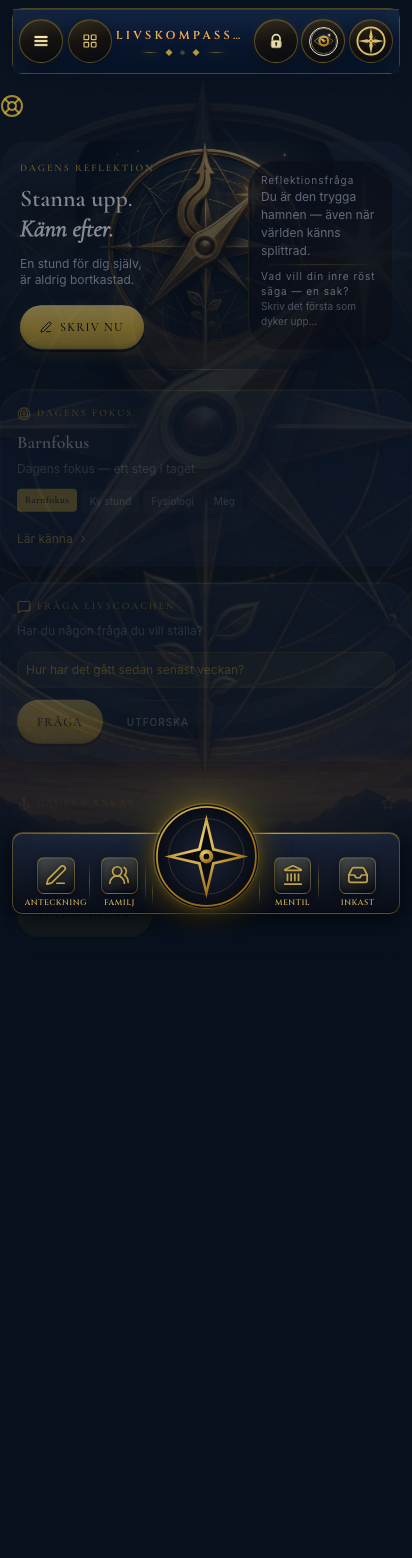
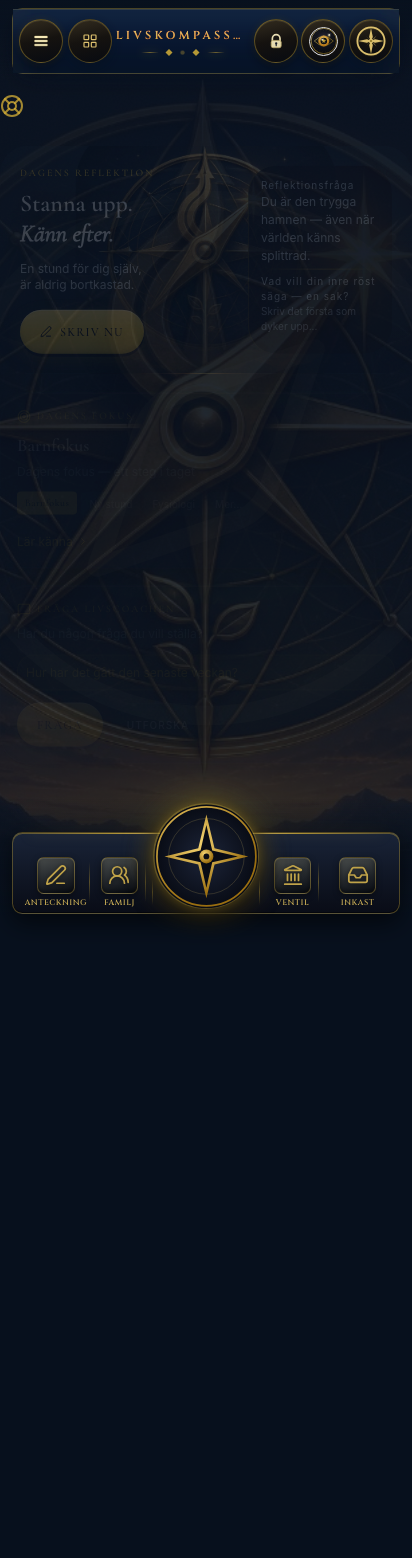
fix(android): natt-grön — vit blink, bakåtknapp, haptik (#253)
* fix(android): stoppa vit blink + frigör e2e-port i natt

Pontus OK: Sacred WebViewManager + theme (Obsidian, ingen overscroll/force-dark).
smoke:e2e-locked-ux dödar upptagen 5174 innan Playwright så predeploy inte failar.

* feat(android): bakåtknapp, haptik och lugnare scroll

Stänger menyer/overlays med fysisk bakåtknapp, haptik i dock/tabbar,
ingen vit overscroll-bounce, plus natt-rapporter.

* fix(android): typecheck för bakåtknapp, skeleton och dock-nav

Tar bort oanvända imports/params och rättar navigate-typ så pre-push går igenom.

* fix(android): ta bort navigationBarDividerColor (API 27+)

Lint NewApi failade i CI — minSdk 24. Vit-blink-fixen behålls via övriga theme-attribut.

---------

diff --git a/src/modules/core/hooks/useNativeBackHandler.ts b/src/modules/core/hooks/useNativeBackHandler.ts
@@ -1,0 +1,47 @@
+import { useEffect } from 'react';
+import { useStore } from '../store';
+import { App } from '@capacitor/app';
+import { isCapacitorNative } from '../platform/capacitorPlatform';
+
+/**
+ * Android Premium Enhancement — Handles physical back button to close
+ * overlays (Menu, Sheets, Modals) before navigating back in history.
+ */
+export function useNativeBackHandler() {
+  const isMenuOpen = useStore((s) => s.ui.isMenuOpen);
+  const setMenuOpen = useStore((s) => s.setMenuOpen);
+
+  useEffect(() => {
+    if (!isCapacitorNative()) return;
+
+    const unsub = App.addListener('backButton', () => {
+      // 1. Close Menu first
+      if (isMenuOpen) {
+        setMenuOpen(false);
+        return;
+      }
+
+      // 2. Check for open Sheets/Modals (simple DOM check for DS components)
+      const hasOverlay = document.querySelector('.ds-overlay');
+      if (hasOverlay) {
+        // Find the close button and click it to trigger component onClose logic
+        // This targets typical DS Sheet/Modal close actions or backdrops
+        const closeBtn = document.querySelector('.ds-sheet-panel [aria-label="Stäng"], .ds-modal-panel [aria-label="Stäng"], .resurser-overlay__close');
+        if (closeBtn instanceof HTMLElement) {
+          closeBtn.click();
+          return;
+        }
+
+        // Fallback: if no close button found but overlay exists, we might need a more aggressive onClose
+        // But for now, DS components usually have close buttons or backdrop clicks.
+      }
+
+      // 3. Default behavior (Capacitor will handle navigation if we don't intercept)
+      // If we are at root, we might want to exit, but let Capacitor default for now.
+    });
+
+    return () => {
+      void unsub.then((h) => h.remove());
+    };
+  }, [isMenuOpen, setMenuOpen]);
+}

diff --git a/src/modules/core/layout/FloatingDock.tsx b/src/modules/core/layout/FloatingDock.tsx
@@ -10,6 +10,7 @@ import { useExecutiveHomeChrome } from '../home/ExecutiveHomeChromeContext';
 import { NAV_PATHS } from '../navigation/navTruth';
 import { ResurserOverlay } from '../navigation/ResurserOverlay';
 import { useLongPress } from '../hooks/useLongPress';
+import { useNativeHaptics } from '@/shared/utils/nativeHaptics';
 import { useStore } from '../store';
 import { useTheme } from '../theme';
 import { getTheme } from '../theme';
@@ -34,6 +35,7 @@ export function FloatingDock() {
   const location = useLocation();
   const navigate = useNavigate();
   const { themeId } = useTheme();
+  const { navigate: triggerNavHaptic } = useNativeHaptics();
   const executive = isMidnightExecutiveTheme(themeId);
   const referenceDock =
     executive || isMockupTheme(themeId) || themeUsesDesignPackChrome(getTheme(themeId));
@@ -89,6 +91,11 @@ export function FloatingDock() {
   const { progress, isHolding, ...centerHoldHandlers } = centerPress;
   const showFyrenRing = progress > 0;
 
+  const handleNavigate = useCallback((to: string | { pathname: string; search?: string }) => {
+    triggerNavHaptic();
+    navigate(to);
+  }, [navigate, triggerNavHaptic]);
+
   if (referenceDock) {
     return (
       <>
@@ -108,13 +115,16 @@ export function FloatingDock() {
             progress={progress}
             isHolding={isHolding}
             centerHoldHandlers={centerHoldHandlers}
-            onAnteckning={() => navigate('/widget/anteckning')}
-            onFamiljen={() => navigate(NAV_PATHS.FAMILJEN)}
-            onVentil={() => navigate(NAV_PATHS.HJARTAT)}
-            onInkast={() => navigate('/planering/input?inputMode=inkast')}
-            onResurser={() => setResurserOpen(true)}
-            onValv={() => navigate(valvetNavigateTarget())}
-            onPlanering={() => navigate('/planering')}
+            onAnteckning={() => handleNavigate('/widget/anteckning')}
+            onFamiljen={() => handleNavigate(NAV_PATHS.FAMILJEN)}
+            onVentil={() => handleNavigate(NAV_PATHS.HJARTAT)}
+            onInkast={() => handleNavigate('/planering/input?inputMode=inkast')}
+            onResurser={() => {
+              triggerNavHaptic();
+              setResurserOpen(true);
+            }}
+            onValv={() => handleNavigate(valvetNavigateTarget())}
+            onPlanering={() => handleNavigate('/planering')}
           />
         </div>
       </>
@@ -134,7 +144,7 @@ export function FloatingDock() {
             active={pathname.startsWith('/widget/anteckning')}
             variant="slot"
             className="floating-dock__side-btn floating-dock__side-btn--anteckning"
-            onClick={() => navigate('/widget/anteckning')}
+            onClick={() => handleNavigate('/widget/anteckning')}
           />
 
           <div className="dock-hub-band__rail dock-hub-band__rail--zones">
@@ -146,7 +156,7 @@ export function FloatingDock() {
                 active={isFamiljen}
                 variant="slot"
                 className="floating-dock__side-btn floating-dock__side-btn--familj"
-                onClick={() => navigate(NAV_PATHS.FAMILJEN)}
+                onClick={() => handleNavigate(NAV_PATHS.FAMILJEN)}
               />
             </div>
 
@@ -186,7 +196,7 @@ export function FloatingDock() {
                 active={isHjartat}
                 variant="slot"
                 className="floating-dock__side-btn floating-dock__side-btn--valv"
-                onClick={() => navigate(NAV_PATHS.HJARTAT)}
+                onClick={() => handleNavigate(NAV_PATHS.HJARTAT)}
               />
             </div>
           </div>
@@ -199,7 +209,7 @@ export function FloatingDock() {
               active={pathname.startsWith('/planering/input')}
               variant="slot"
               className="floating-dock__side-btn floating-dock__side-btn--inkast"
-              onClick={() => navigate('/planering/input?inputMode=inkast')}
+              onClick={() => handleNavigate('/planering/input?inputMode=inkast')}
             />
             <DockNavButton
               label="Resurser"
@@ -211,7 +221,10 @@ export function FloatingDock() {
                 'floating-dock__side-btn floating-dock__side-btn--resurser',
                 resurserOpen && 'floating-dock__side-btn--active',
               )}
-              onClick={() => setResurserOpen(true)}
+              onClick={() => {
+                triggerNavHaptic();
+                setResurserOpen(true);
+              }}
             />
           </div>
         </div>

diff --git a/src/modules/core/home/DevelopmentBentoWidget.tsx b/src/modules/core/home/DevelopmentBentoWidget.tsx
@@ -5,9 +5,9 @@
  * Ingen cross-RAG, ingen runtime-AI-fakta.
  */
 import { useCallback, useEffect, useMemo, useRef, useState } from 'react';
-import { Check, Layers, Loader2, Package, Plus, Share2 } from 'lucide-react';
+import { Check, Layers, Package, Plus, Share2 } from 'lucide-react';
 import { Link, useSearchParams } from 'react-router-dom';
-import { Button, TextArea } from '@/design-system';
+import { Button, Skeleton, TextArea } from '@/design-system';
 import { BentoCard } from '@/shared/ui/BentoCard';
 import { useNativeHaptics } from '@/shared/utils/nativeHaptics';
 import { getLivskompassenNative } from '@/shared/utils/nativeSecureDownload';
@@ -406,12 +406,14 @@ export function DevelopmentBentoWidget({ refreshKey = 0, embedded = false }: Pro
       </p>
 
       {loadingCompleted ? (
-        <p className="flex items-center gap-2 text-xs text-text-dim">
-          <Loader2 className="h-3.5 w-3.5 animate-spin" aria-hidden /> Laddar …
-        </p>
+        <div className="grid grid-cols-2 gap-2 sm:grid-cols-3">
+          {Array.from({ length: lowCapacity ? 1 : 6 }).map((_, i) => (
+            <Skeleton key={i} variant="block" className="min-h-[72px] rounded-xl bg-accent/5" />
+          ))}
+        </div>
       ) : null}
 
-      {mix.length === 0 ? (
+      {!loadingCompleted && mix.length === 0 ? (
         <p className="text-xs text-text-dim">
           Inga kort just nu. Hämta ett faktapack eller skapa en egen kategori.
         </p>

diff --git a/src/styles/dock-kanon-match.css b/src/styles/dock-kanon-match.css
@@ -592,9 +592,15 @@ html.platform-capacitor-android .app-main {
   width: 100%;
 }
 
-/* Vertikal scroll i hubbar — WebView blockeras av overflow-x:clip + overscroll contain */
+/* Vertikal scroll i hubbar — tillåt pan-y, men ingen bounce/vit glow */
+html.platform-capacitor-android,
+html.platform-capacitor-android body {
+  overscroll-behavior: none;
+  background-color: #0d0b09;
+}
+
 html.platform-capacitor-android .calm-scroll-island {
-  overscroll-behavior: auto;
+  overscroll-behavior-y: none;
   touch-action: pan-y;
   -webkit-overflow-scrolling: touch;
 }

diff --git a/src/modules/core/ui/TabBar.tsx b/src/modules/core/ui/TabBar.tsx
@@ -1,4 +1,5 @@
 import type { KeyboardEvent, ReactNode } from 'react';
+import { useNativeHaptics } from '@/shared/utils/nativeHaptics';
 
 export type TabBarItem<T extends string = string> = {
   id: T;
@@ -20,6 +21,7 @@ export function TabBar<T extends string>({
   onChange,
   size = 'default',
 }: TabBarProps<T>) {
+  const { navigate: triggerNavHaptic } = useNativeHaptics();
   const pad = size === 'compact' ? 'px-3 py-2' : 'px-4 py-2.5';
 
   const handleKeyDown = (e: KeyboardEvent<HTMLButtonElement>, index: number) => {
@@ -49,7 +51,10 @@ export function TabBar<T extends string>({
               role="tab"
               aria-selected={isActive}
               tabIndex={isActive ? 0 : -1}
-              onClick={() => onChange(id)}
+              onClick={() => {
+                if (!isActive) triggerNavHaptic();
+                onChange(id);
+              }}
               onKeyDown={(e) => handleKeyDown(e, index)}
               className={`flex shrink-0 touch-manipulation items-center gap-2 rounded-full min-h-[var(--ds-touch-target,2.75rem)] max-sm:min-w-0 max-sm:flex-1 max-sm:justify-center ${pad} text-xs uppercase tracking-widest focus-visible:outline focus-visible:outline-2 focus-visible:outline-offset-2 focus-visible:outline-accent/50 ${
                 isActive ? 'chip--active' : 'chip--idle'

diff --git a/src/App.tsx b/src/App.tsx
@@ -6,6 +6,7 @@ import { useEvolutionSync } from './modules/core/hooks/useEvolutionSync';
 import { useAdaptationSync } from './modules/core/hooks/useAdaptationSync';
 import { useAdaptationSignalRouter } from './modules/core/hooks/useAdaptationSignalRouter';
 import { useMaterialPackNotification } from './modules/core/hooks/useMaterialPackNotification';
+import { useNativeBackHandler } from './modules/core/hooks/useNativeBackHandler';
 import { AppRoutes } from './modules/core/routing/AppRoutes';
 import { ThemeProvider } from './modules/core/theme';
 import { WidgetDeepLinkBridge } from '@/features/widgets/WidgetDeepLinkBridge';
@@ -24,6 +25,7 @@ function AppShell() {
   useAdaptationSync();
   useAdaptationSignalRouter();
   useMaterialPackNotification();
+  useNativeBackHandler();
   useBarnportenWebManifest();
   const { pathname } = useLocation();
   const isWidgetRoute = pathname.startsWith('/widget');

diff --git a/android/app/src/main/java/com/livskompassen/app/core/WebViewManager.java b/android/app/src/main/java/com/livskompassen/app/core/WebViewManager.java
@@ -158,7 +158,12 @@ public class WebViewManager {
                 "document.head.appendChild(link);" +
                 "})()");
 
+        // Obsidian Midnight — no white flash on touch / edge overscroll.
         webView.setBackgroundColor(Color.parseColor("#0D0B09"));
+        webView.setOverScrollMode(View.OVER_SCROLL_NEVER);
+        if (Build.VERSION.SDK_INT >= Build.VERSION_CODES.Q) {
+            webView.setForceDarkAllowed(false);
+        }
         WebSettings settings = webView.getSettings();
 
         updateCacheMode(settings);